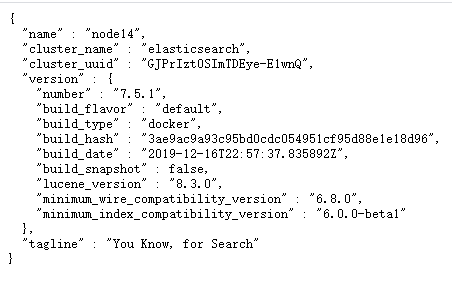
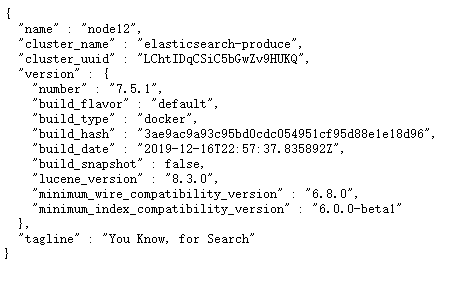
add elasticsearch

diff --git a/docs/be/elastic/README.md b/docs/be/elastic/README.md
@@ -204,17 +204,17 @@ location字段应与数据库字段相对应
 在`elasticsearch.yml`中添加如下内容：
 ```yml
 cluster.name: elasticsearch		#集群名称，唯一
-node.name: node14		#节点名称
+node.name: node12		#节点名称
 node.master: true		#主节点
 node.data: true			#数据节点
-cluster.initial_master_nodes: ["node14","node15"]		#集群的主节点
+cluster.initial_master_nodes: ["node10","node11","node12"]		#集群的主节点
 network.bind_host: 0.0.0.0				#设置可以访问的ip,默认为0.0.0.0，这里全部设置通过
-network.publish_host: 192.168.18.14		#设置其它结点和该结点通信的ip地址
+network.publish_host: 192.168.18.12		#设置其它结点和该结点通信的ip地址
 http.port: 9200		 					#设置对外服务的http端口，默认为9200
 transport.tcp.port: 9300				#设置节点之间通信的tcp端口，默认是9300
 transport.tcp.compress: true			#设置是否压缩tcp传输时的数据，默认false
-discovery.zen.ping.unicast.hosts: ["192.168.18.14","192.168.18.15"]		#集群的主节点
-discovery.zen.minimum_master_nodes: 1		#自动发现主节点的最小数
+discovery.zen.ping.unicast.hosts: ["192.168.18.10","192.168.18.11","192.168.18.12"]		#集群的主节点
+discovery.zen.minimum_master_nodes: 2		#自动发现主节点的最小数 N = 节点数/2 + 1
 http.cors.enabled: true
 http.cors.allow-origin: "*"
 ```
@@ -251,13 +251,13 @@ history #查看命令的历史记录
 free -h  #查看内存
 ```
 
-最后在浏览器输入`192.168.18.14:9200`或者`192.168.18.15:9200`均可看到下图所示内容：
+最后在浏览器输入`192.168.18.10:9200`、`192.168.18.11:9200`或者`192.168.18.12:9200`均可看到下图所示内容：
 
 ![image](/blog/img/es_cluster.png)
 
 查看集群状态  
 ```
-http://192.168.18.14:9200/_cluster/health
+http://192.168.18.12:9200/_cluster/health
 ```
 
 ![image](/blog/img/es_cluster_health.png)
@@ -270,7 +270,7 @@ http://192.168.18.14:9200/_cluster/health
 ```
 
 ### 常见问题
-1、报错 `max virtual memory areas vm.max_map_count [65530] is too low, increase to at least [262144]`
+**1、报错 `max virtual memory areas vm.max_map_count [65530] is too low, increase to at least [262144]`**
 
 切换到root用户修改配置`sysctl.conf`
 ```yml
@@ -285,3 +285,63 @@ vm.max_map_count=262144
 sysctl -p
 ```
 重新启动elasticsearch
+
+**2、文件无权限**
+
+报错信息如下：
+```yml
+java.lang.IllegalStateException: failed to obtain node locks, tried [[/usr/share/elasticsearch/data]] with lock id [0]; maybe these locations are not writable or multiple nodes were started without increasing [node.max_local_storage_nodes] (was [1])?
+
+java.io.IOException: failed to obtain lock on /usr/share/elasticsearch/data/nodes/0
+
+java.nio.file.AccessDeniedException: /usr/share/elasticsearch/data/nodes/0/node.lock
+```
+这是文件没有访问权限，此处在`/mntdata/docker/var/lib/docker/db_data_volumes`目录下输入
+```yml
+chmod -R 777 /mntdata/docker/var/lib/docker/db_data_volumes/dockercompose_sxmap-search-elasticsearch
+```
+
+找到`docker-compose`配置文件`cd /mntdata/map-server/docker-compose/`，可以看到`/usr/share/elasticsearch/data`存放es数据的目录映射到了上边的目录
+`/mntdata/docker/var/lib/docker/db_data_volumes/dockercompose_sxmap-search-elasticsearch`，注意目录结构根据自己的实际目录来定。
+
+下面就是`map-search-docker-compose.yml`配置文件
+```yml
+version: '2.1'
+services:
+  sxmap-elasticsearch:
+    image: elasticsearch:7.5.1
+    restart: always
+    #environment:
+     # - discovery.type=single-node
+    volumes:
+      - /mntdata/docker/var/lib/docker/db_data_volumes/dockercompose_sxmap-search-elasticsearch:/usr/share/elasticsearch/data
+      - /mntdata/docker/var/lib/docker/db_data_volumes/dockercompose_sxmap-search-elasticsearch-config:/usr/share/elasticsearch/config
+    ports:
+      - 9200:9200
+      - 9300:9300
+  sxmap-search-node:
+    image: sxmap/mapsearch:last
+    restart: always
+    environment:
+      - GEOSERVER=http://geoserver:8080/geoserver
+      - ELASTICSEARCH=http://sxmap-elasticsearch:9200
+    volumes:
+      - sxmap-search-node:/opt/mapSearch
+    ports:
+      - '9999:5000'
+```
+
+**3、报错`with the same id but is a different node instance`**
+
+这种情况一般是复制节点造成的，比如在集群中新增一个节点，通常会复制一个已经存在的节点，这样会将节点数据也复制过来，
+所以删除存放elsticsearch数据的文件夹中的节点数据即可。
+
+```yml
+rm -rf /mntdata/docker/var/lib/docker/db_data_volumes/dockercompose_sxmap-search-elasticsearch/nodes/
+```
+
+如果删除时报错`Directory not empty`或者`Device or resource busy`，将容器先停掉
+```yml
+docker stop dockercompose_sxmap-elasticsearch_1
+```
+再执行删除命令就能删掉数据，然后重启容器即可。
